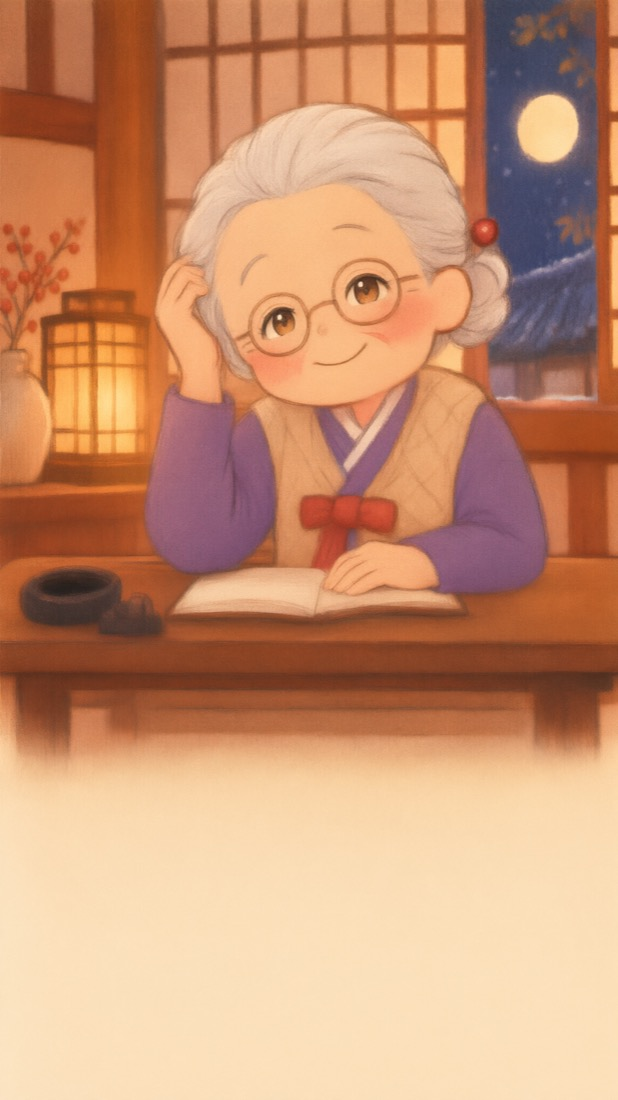
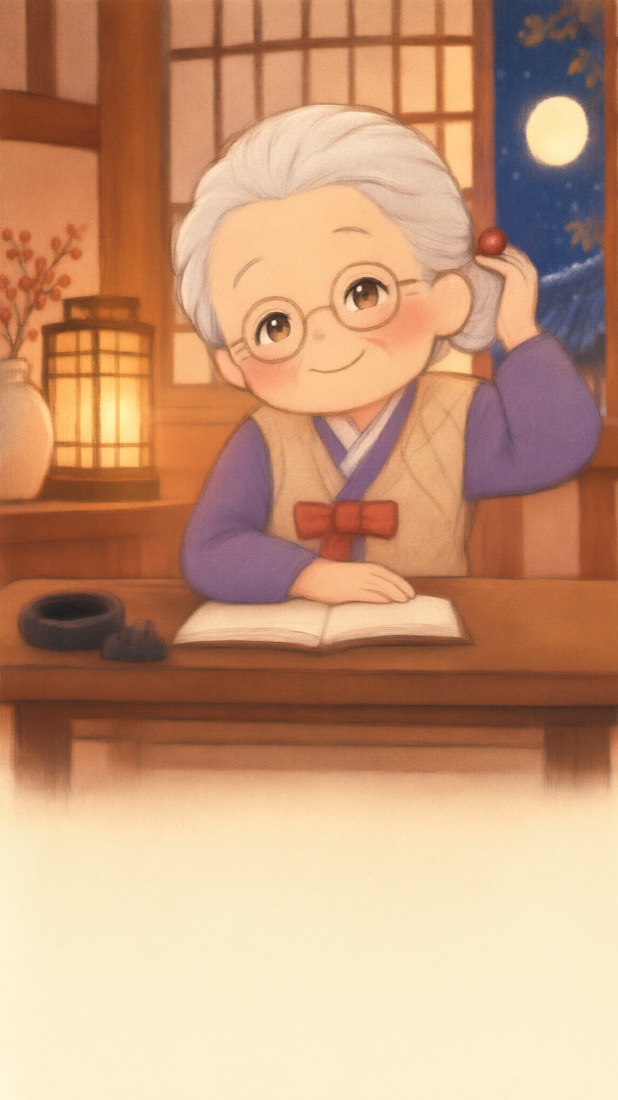
색감 첫 장에 맞춤, Q8 턱 수정

diff --git a/preview/soft.html b/preview/soft.html
@@ -1,3 +1,3 @@
 <!doctype html><html lang="ko"><head><meta charset="utf-8"><meta name="viewport" content="width=device-width,initial-scale=1"><meta name="robots" content="noindex,nofollow"><title>할미 표정 바꾼 그림 4장</title>
 <style>body{margin:0;background:#F6F1E7;font-family:-apple-system,sans-serif;color:#2B2622}main{max-width:448px;margin:0 auto;padding:16px 16px 48px}h1{font-size:20px;line-height:30px;margin:8px 0}p{font-size:15px;line-height:24px;color:#6E6459;margin:4px 0 16px}.box{position:relative;border-radius:16px;overflow:hidden}.box img{display:block;width:100%}.say{position:absolute;left:16px;right:16px;bottom:24%;text-align:center;font-family:serif;font-size:18px;line-height:27px;color:#0E324C;margin:0}.cap{font-size:13px;margin:4px 0 24px}</style></head>
-<body><main><h1>표정 바꾼 그림 4장 · 인자하고 기품 있게</h1><p>입 다문 은은한 미소, 부드럽게 뜬 갈색 눈. 영상 만들기 전 그림이에요.</p><div class="box"><img src="s/Q1.jpg?v=4"><p class="say">“운명을 펼치기 전에, 먼저 이름부터 알려줄래요?”</p></div><p class="cap">Q1 · 도입</p><div class="box"><img src="s/Q5.jpg?v=4"><p class="say">“좋아요, 몇 가지만 더 물어볼게요! 혹시 지금 만나는 분이 계세요?”</p></div><p class="cap">Q5 · 연애</p><div class="box"><img src="s/Q8.jpg?v=4"><p class="say">“특별히 물어보실 내용이 있다면 따로 풀이를 작성해 드릴게요.”</p></div><p class="cap">Q8 · 따로 물을 것</p><div class="box"><img src="s/Q9.jpg?v=4"><p class="say">“자, 이제 마지막이에요! 제비 하나만 뽑아주시겠어요?”</p></div><p class="cap">Q9 · 마지막</p></main></body></html>
+<body><main><h1>표정 바꾼 그림 4장 · 인자하고 기품 있게</h1><p>입 다문 은은한 미소, 부드럽게 뜬 갈색 눈. 영상 만들기 전 그림이에요.</p><div class="box"><img src="s/Q1.jpg?v=5"><p class="say">“운명을 펼치기 전에, 먼저 이름부터 알려줄래요?”</p></div><p class="cap">Q1 · 도입</p><div class="box"><img src="s/Q5.jpg?v=5"><p class="say">“좋아요, 몇 가지만 더 물어볼게요! 혹시 지금 만나는 분이 계세요?”</p></div><p class="cap">Q5 · 연애</p><div class="box"><img src="s/Q8.jpg?v=5"><p class="say">“특별히 물어보실 내용이 있다면 따로 풀이를 작성해 드릴게요.”</p></div><p class="cap">Q8 · 따로 물을 것</p><div class="box"><img src="s/Q9.jpg?v=5"><p class="say">“자, 이제 마지막이에요! 제비 하나만 뽑아주시겠어요?”</p></div><p class="cap">Q9 · 마지막</p></main></body></html>
